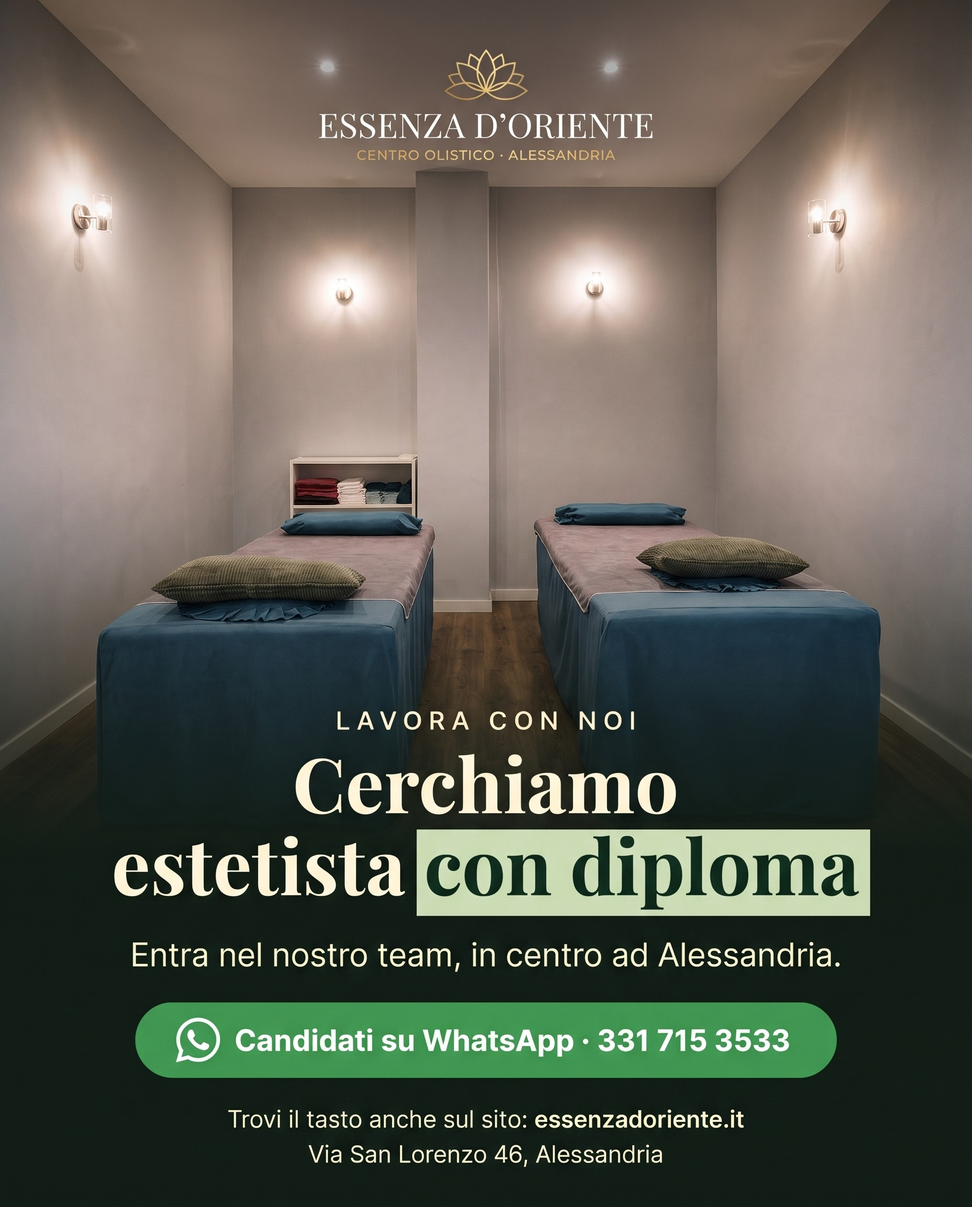
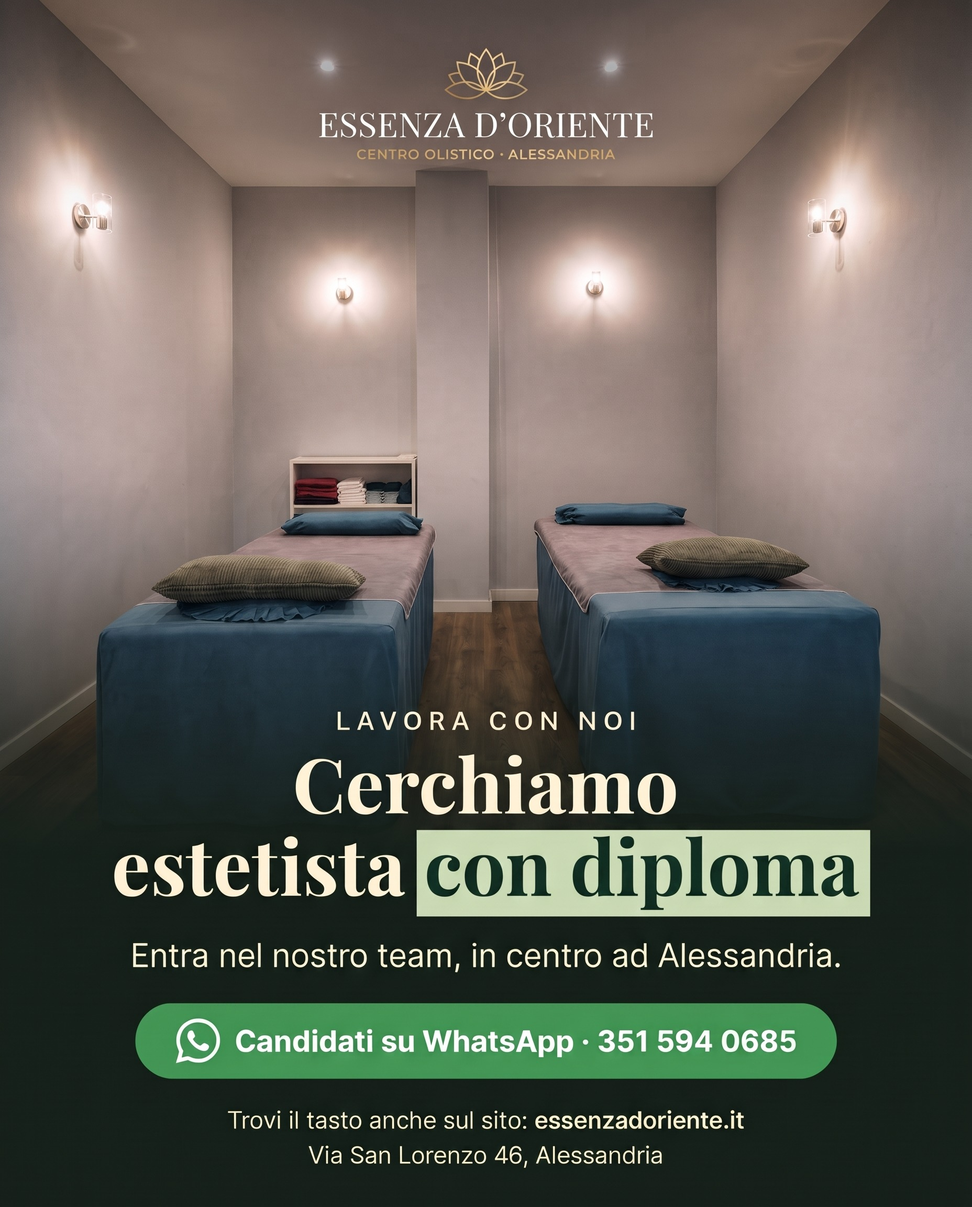
Essenza d'Oriente: candidature al numero dedicato 351 594 0685
Sezione Lavora con noi (WhatsApp e telefono) e grafiche social
aggiornate; il numero del centro resta invariato nel resto del sito.

Claude-Session: https://claude.ai/code/session_01PpWQszgNCh48cxEzAjKxRQ

diff --git a/essenza-oriente/index.html b/essenza-oriente/index.html
@@ -428,8 +428,8 @@
               <li>Centro aperto tutti i giorni, 9:30 – 22:30</li>
               <li>Risposta diretta su WhatsApp</li>
             </ul>
-            <a class="btn btn-ink" data-candidatura href="https://wa.me/393317153533?text=Ciao!%20Vorrei%20candidarmi%20come%20estetista.%20Ho%20il%20diploma%20di%20estetista." target="_blank" rel="noopener">Invia la tua candidatura <span class="ico wa"><svg viewBox="0 0 24 24" fill="currentColor" aria-hidden="true"><path d="M12 2a10 10 0 0 0-8.6 15.1L2 22l5.1-1.3A10 10 0 1 0 12 2Zm0 18.2a8.2 8.2 0 0 1-4.2-1.2l-.3-.2-3 .8.8-2.9-.2-.3A8.2 8.2 0 1 1 12 20.2Zm4.5-6.1c-.2-.1-1.5-.7-1.7-.8-.2-.1-.4-.1-.6.1-.2.2-.6.8-.8 1-.1.2-.3.2-.5.1a6.7 6.7 0 0 1-3.4-3c-.3-.4 0-.5.1-.7l.5-.6c.1-.2.1-.3 0-.5l-.8-1.9c-.2-.5-.4-.4-.6-.4h-.5c-.2 0-.5.1-.7.3-.2.3-.9.9-.9 2.2s.9 2.5 1.1 2.7c.1.2 1.8 2.8 4.4 3.9 2.6 1.1 2.6.7 3.1.7.5 0 1.5-.6 1.7-1.2.2-.6.2-1.1.2-1.2-.1-.2-.3-.2-.6-.3Z"/></svg></span></a>
-            <p class="lavora-nota">Oppure chiama il <a data-candidatura href="tel:+393317153533">331 715 3533</a></p>
+            <a class="btn btn-ink" data-candidatura href="https://wa.me/393515940685?text=Ciao!%20Vorrei%20candidarmi%20come%20estetista.%20Ho%20il%20diploma%20di%20estetista." target="_blank" rel="noopener">Invia la tua candidatura <span class="ico wa"><svg viewBox="0 0 24 24" fill="currentColor" aria-hidden="true"><path d="M12 2a10 10 0 0 0-8.6 15.1L2 22l5.1-1.3A10 10 0 1 0 12 2Zm0 18.2a8.2 8.2 0 0 1-4.2-1.2l-.3-.2-3 .8.8-2.9-.2-.3A8.2 8.2 0 1 1 12 20.2Zm4.5-6.1c-.2-.1-1.5-.7-1.7-.8-.2-.1-.4-.1-.6.1-.2.2-.6.8-.8 1-.1.2-.3.2-.5.1a6.7 6.7 0 0 1-3.4-3c-.3-.4 0-.5.1-.7l.5-.6c.1-.2.1-.3 0-.5l-.8-1.9c-.2-.5-.4-.4-.6-.4h-.5c-.2 0-.5.1-.7.3-.2.3-.9.9-.9 2.2s.9 2.5 1.1 2.7c.1.2 1.8 2.8 4.4 3.9 2.6 1.1 2.6.7 3.1.7.5 0 1.5-.6 1.7-1.2.2-.6.2-1.1.2-1.2-.1-.2-.3-.2-.6-.3Z"/></svg></span></a>
+            <p class="lavora-nota">Oppure chiama il <a data-candidatura href="tel:+393515940685">351 594 0685</a></p>
           </div>
         </div>
       </div>

diff --git a/essenza-oriente/zh/index.html b/essenza-oriente/zh/index.html
@@ -427,8 +427,8 @@
               <li>每天营业 9:30 – 22:30</li>
               <li>WhatsApp 直接回复</li>
             </ul>
-            <a class="btn btn-ink" data-candidatura href="https://wa.me/393317153533?text=Ciao!%20Vorrei%20candidarmi%20come%20estetista.%20Ho%20il%20diploma%20di%20estetista." target="_blank" rel="noopener">发送您的应聘信息 <span class="ico wa"><svg viewBox="0 0 24 24" fill="currentColor" aria-hidden="true"><path d="M12 2a10 10 0 0 0-8.6 15.1L2 22l5.1-1.3A10 10 0 1 0 12 2Zm0 18.2a8.2 8.2 0 0 1-4.2-1.2l-.3-.2-3 .8.8-2.9-.2-.3A8.2 8.2 0 1 1 12 20.2Zm4.5-6.1c-.2-.1-1.5-.7-1.7-.8-.2-.1-.4-.1-.6.1-.2.2-.6.8-.8 1-.1.2-.3.2-.5.1a6.7 6.7 0 0 1-3.4-3c-.3-.4 0-.5.1-.7l.5-.6c.1-.2.1-.3 0-.5l-.8-1.9c-.2-.5-.4-.4-.6-.4h-.5c-.2 0-.5.1-.7.3-.2.3-.9.9-.9 2.2s.9 2.5 1.1 2.7c.1.2 1.8 2.8 4.4 3.9 2.6 1.1 2.6.7 3.1.7.5 0 1.5-.6 1.7-1.2.2-.6.2-1.1.2-1.2-.1-.2-.3-.2-.6-.3Z"/></svg></span></a>
-            <p class="lavora-nota">或致电 <a data-candidatura href="tel:+393317153533">331 715 3533</a></p>
+            <a class="btn btn-ink" data-candidatura href="https://wa.me/393515940685?text=Ciao!%20Vorrei%20candidarmi%20come%20estetista.%20Ho%20il%20diploma%20di%20estetista." target="_blank" rel="noopener">发送您的应聘信息 <span class="ico wa"><svg viewBox="0 0 24 24" fill="currentColor" aria-hidden="true"><path d="M12 2a10 10 0 0 0-8.6 15.1L2 22l5.1-1.3A10 10 0 1 0 12 2Zm0 18.2a8.2 8.2 0 0 1-4.2-1.2l-.3-.2-3 .8.8-2.9-.2-.3A8.2 8.2 0 1 1 12 20.2Zm4.5-6.1c-.2-.1-1.5-.7-1.7-.8-.2-.1-.4-.1-.6.1-.2.2-.6.8-.8 1-.1.2-.3.2-.5.1a6.7 6.7 0 0 1-3.4-3c-.3-.4 0-.5.1-.7l.5-.6c.1-.2.1-.3 0-.5l-.8-1.9c-.2-.5-.4-.4-.6-.4h-.5c-.2 0-.5.1-.7.3-.2.3-.9.9-.9 2.2s.9 2.5 1.1 2.7c.1.2 1.8 2.8 4.4 3.9 2.6 1.1 2.6.7 3.1.7.5 0 1.5-.6 1.7-1.2.2-.6.2-1.1.2-1.2-.1-.2-.3-.2-.6-.3Z"/></svg></span></a>
+            <p class="lavora-nota">或致电 <a data-candidatura href="tel:+393515940685">351 594 0685</a></p>
           </div>
         </div>
       </div>

diff --git a/essenza-oriente/genera-sito.js b/essenza-oriente/genera-sito.js
@@ -15,6 +15,10 @@ const IT = LINGUE[0];
 const TEL = '+393317153533';
 const TEL_VIS = '331 715 3533';
 const WA = 'https://wa.me/393317153533';
+/* candidature di lavoro: numero dedicato, diverso da quello del centro */
+const TEL_LAVORO = '+393515940685';
+const TEL_LAVORO_VIS = '351 594 0685';
+const WA_LAVORO = 'https://wa.me/393515940685';
 const TREATWELL = 'https://widget.treatwell.it/salone/532986/menu/';
 
 /* ---------- pezzi riutilizzabili ---------- */
@@ -446,8 +450,8 @@ ${t.faq.items.map((f) => `          <details>
             <ul class="lavora-punti">
 ${t.lavora.punti.map((p) => `              <li>${p}</li>`).join('\n')}
             </ul>
-            <a class="btn btn-ink" data-candidatura href="${waUrl(t.lavora.msg)}" target="_blank" rel="noopener">${t.lavora.cta} ${WA_ICO}</a>
-            <p class="lavora-nota">${t.lavora.nota} <a data-candidatura href="tel:${TEL}">${TEL_VIS}</a></p>
+            <a class="btn btn-ink" data-candidatura href="${WA_LAVORO}?text=${encodeURIComponent(t.lavora.msg)}" target="_blank" rel="noopener">${t.lavora.cta} ${WA_ICO}</a>
+            <p class="lavora-nota">${t.lavora.nota} <a data-candidatura href="tel:${TEL_LAVORO}">${TEL_LAVORO_VIS}</a></p>
           </div>
         </div>
       </div>

diff --git a/essenza-oriente/CHANGELOG.md b/essenza-oriente/CHANGELOG.md
@@ -52,7 +52,7 @@ Linguaggio visivo Apex Media: carta calda, inchiostro verde profondo, hairline, 
 - Tutto il resto invariato: title, meta, H1 e schema delle altre pagine, GA4, Ads, GTM, widget Treatwell.
 
 ## Novembre 2026 — Cerchiamo personale
-- Nuova sezione `#lavora` in fondo alla home (IT e 中文), dopo le FAQ: "Cerchiamo estetista con diploma", con tasto WhatsApp a messaggio precompilato. Testi in `i18n/*.json` → `lavora`. Link "Lavora con noi" nel footer.
+- Nuova sezione `#lavora` in fondo alla home (IT e 中文), dopo le FAQ: "Cerchiamo estetista con diploma", con tasto WhatsApp a messaggio precompilato. Le candidature vanno al numero dedicato 351 594 0685 (`TEL_LAVORO` / `WA_LAVORO` in `genera-sito.js`), non a quello del centro. Testi in `i18n/*.json` → `lavora`. Link "Lavora con noi" nel footer.
 - Tracking: i click sulla candidatura inviano `click_candidatura` e **non** contano come conversione cliente (`click_whatsapp` / Google Ads).
 - Grafiche social in `social/2026-11-cerchiamo-estetista/` (post 4:5 e storia 9:16).
 - Quando la posizione è coperta: togliere il blocco "LAVORA CON NOI" da `genera-sito.js` e il link nel footer, poi `node genera-sito.js`.
